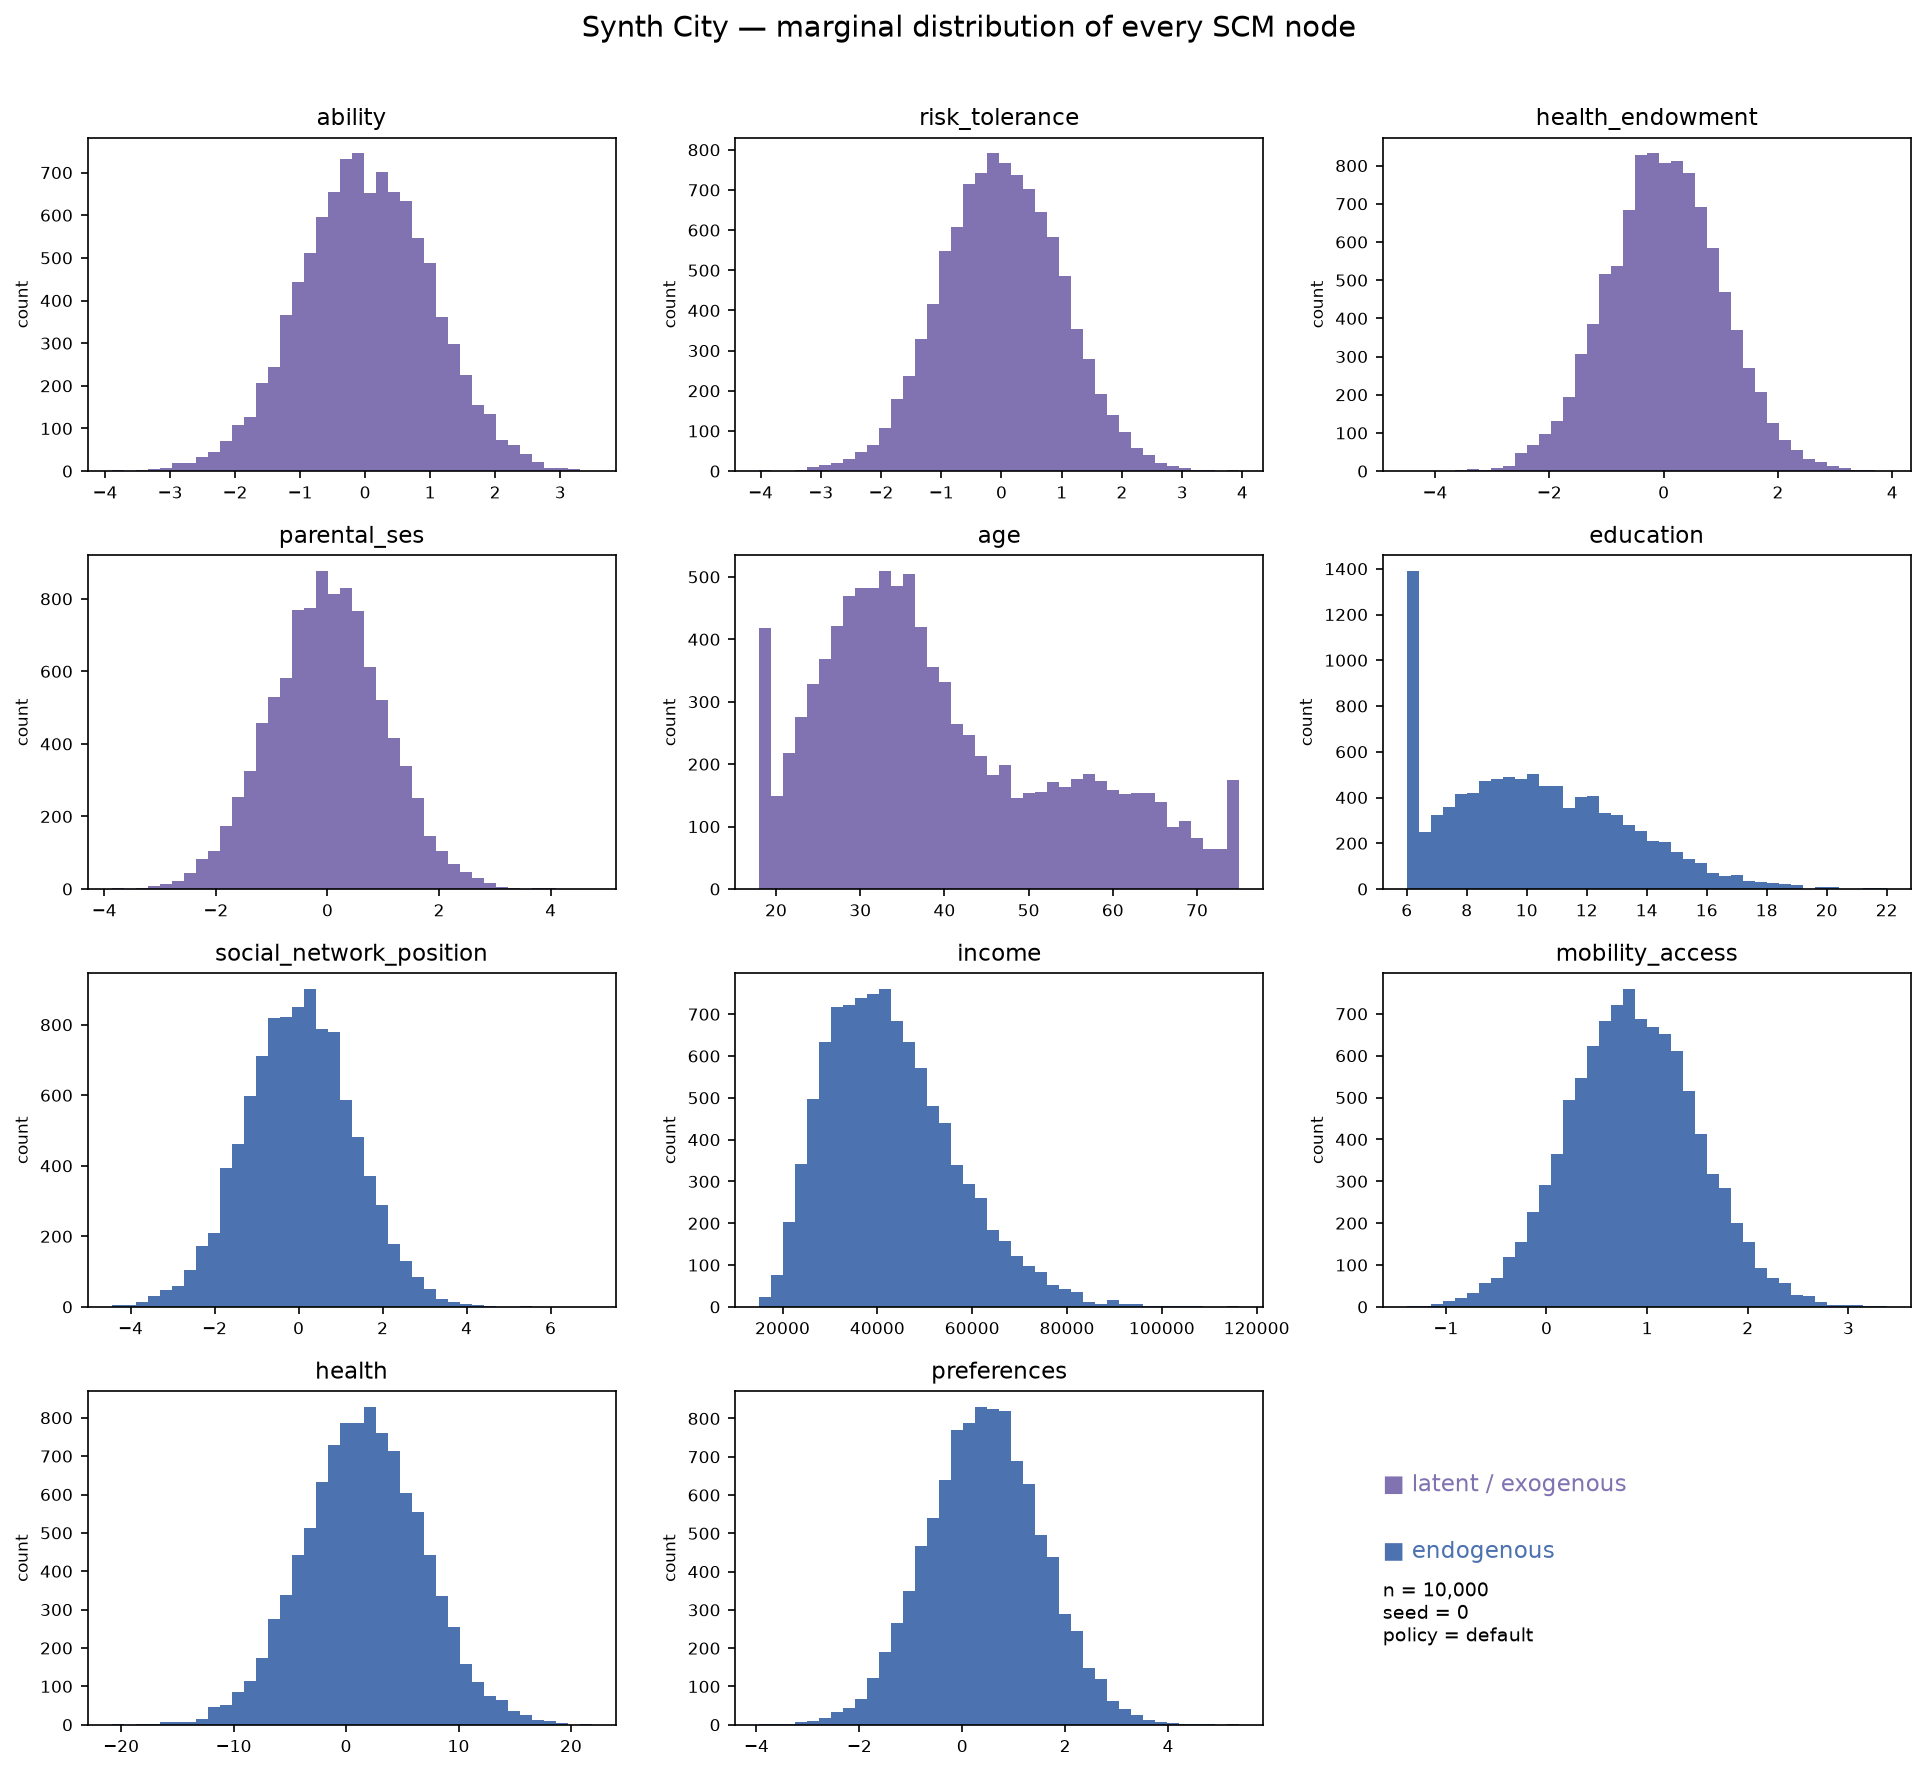
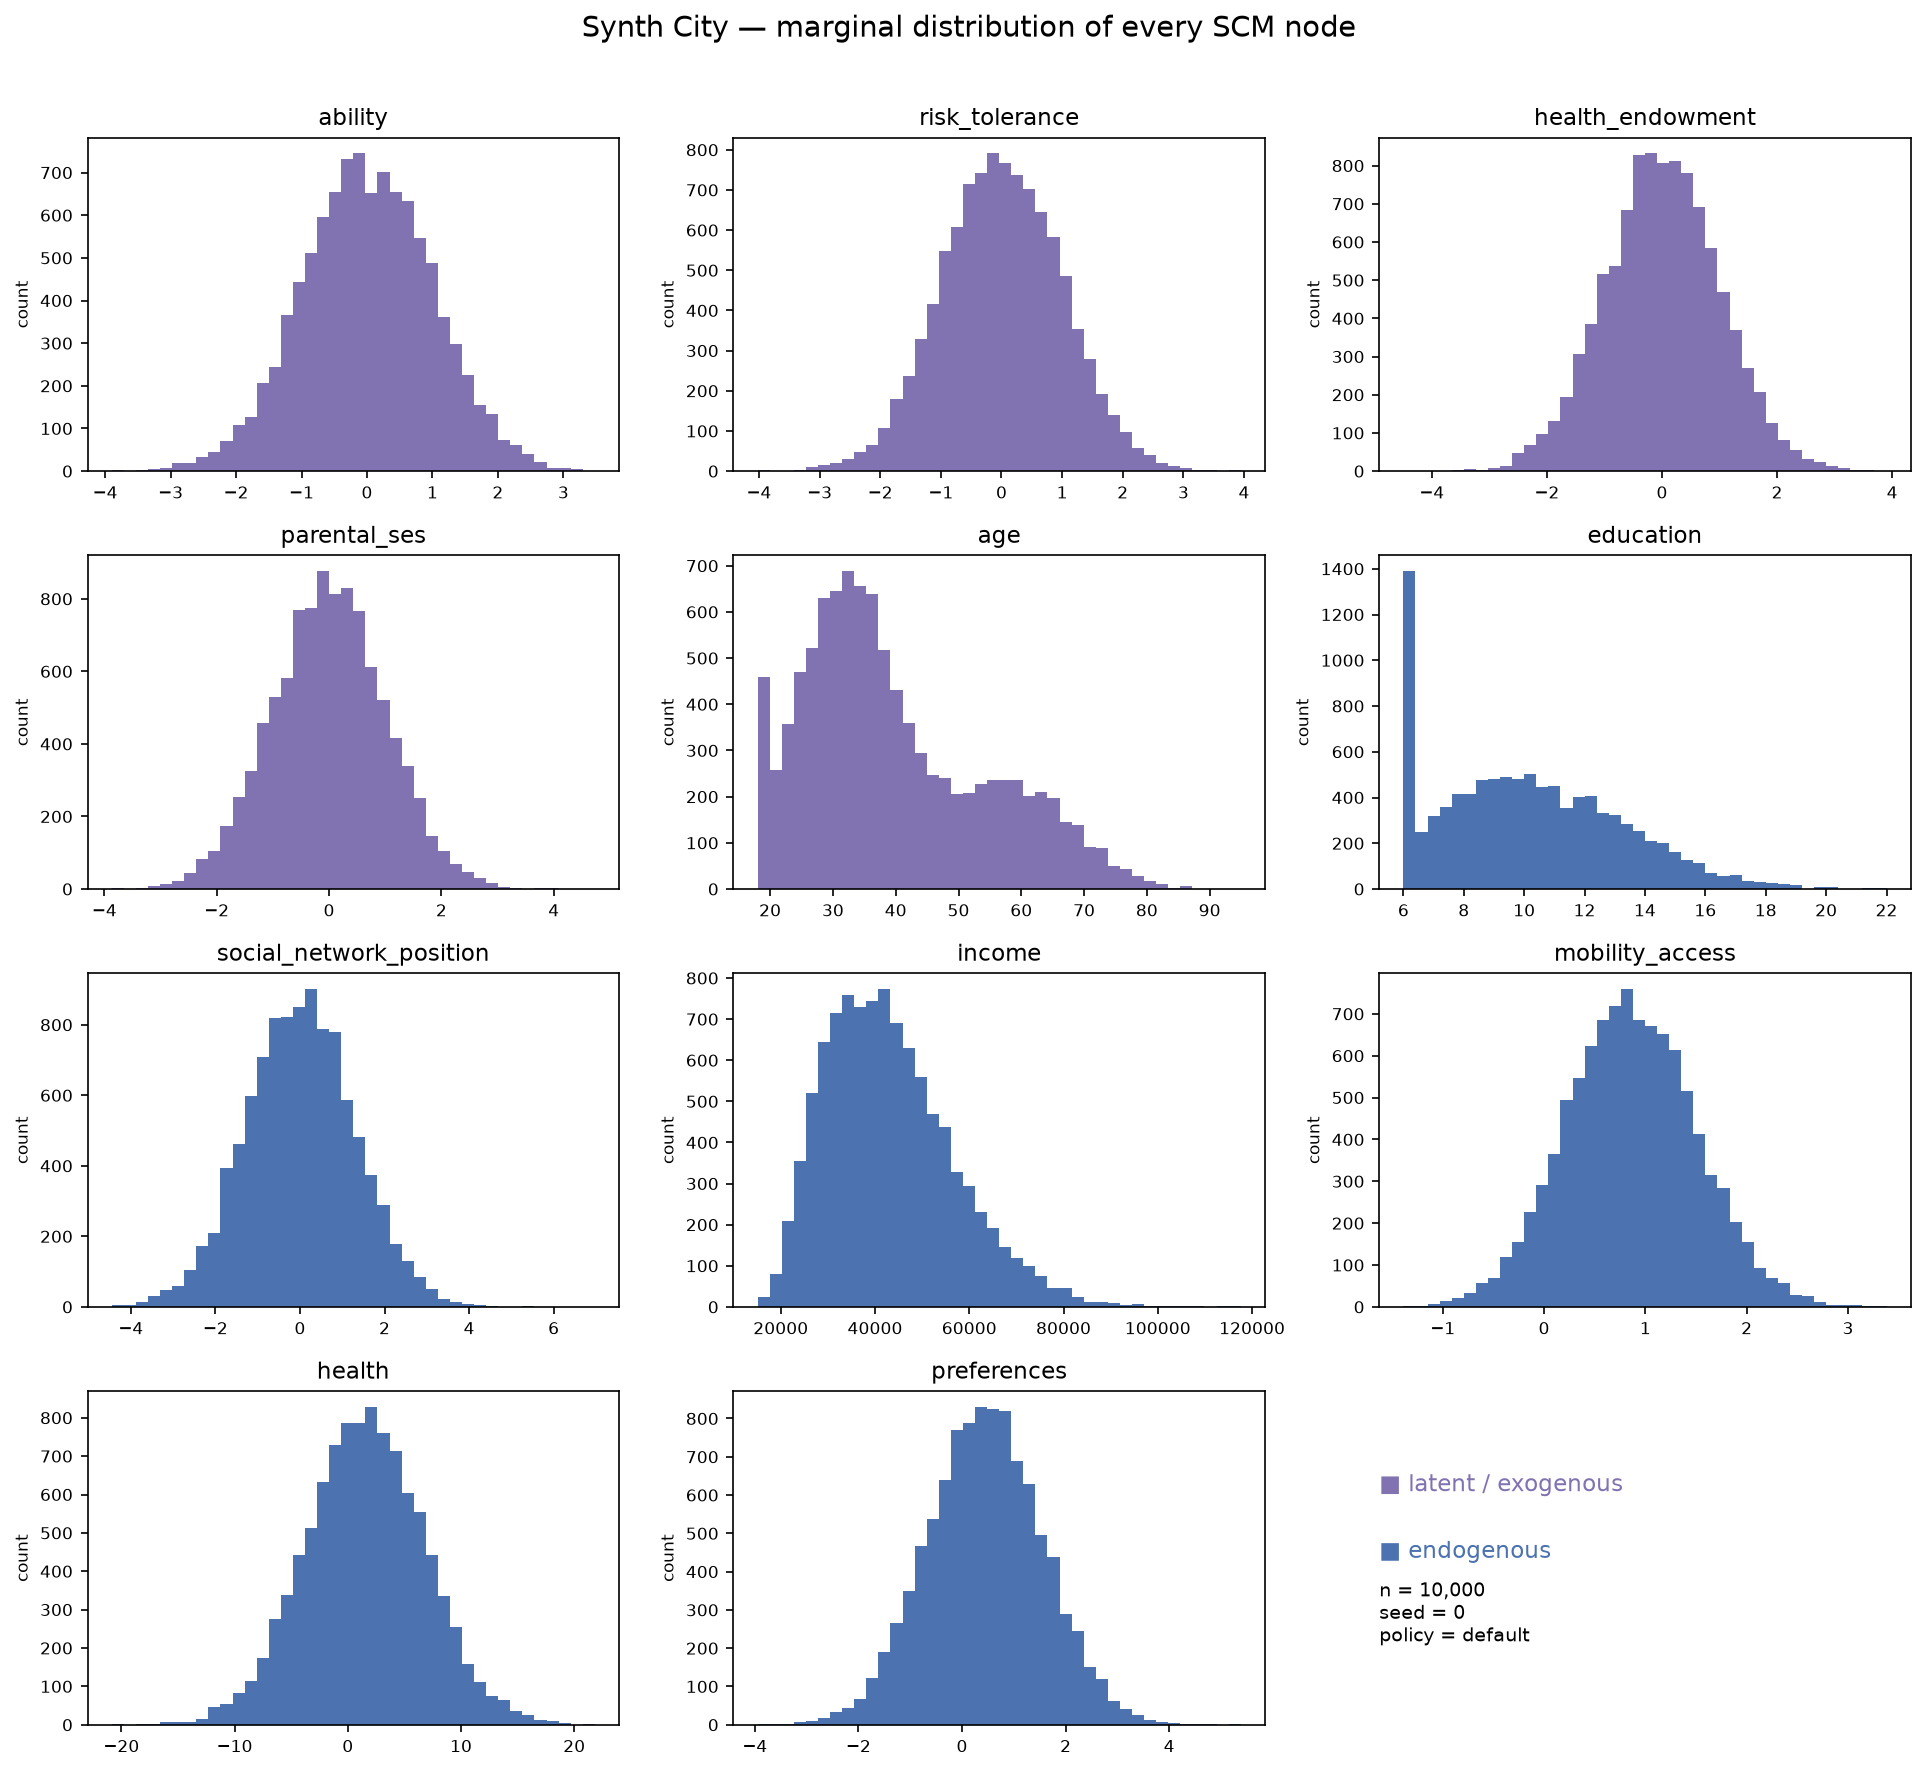
New distributions figures and update readme

diff --git a/synth_city/README.md b/synth_city/README.md
@@ -18,24 +18,16 @@ Variable-by-variable, what each distribution actually is and what it's measured 
   normal, unitless (z-score scale by construction, mean 0 / std 1). These are pure inputs,
   not measured in any real-world unit — think of them as standardized traits.
 
-- **`age`** — years, range [18, 75]. **No longer uniform** — it's a mixture of two normals
-  (peaks around 32 and 58, 70/30 split) meant to look more like a population pyramid than a
-  flat draw. Clipping to [18, 75] leaves small pile-ups at both boundaries, the same
-  artifact as the `education` spike below, just at two points instead of one.
+- **`age`** — years, range [18, 75]. Meant to look like a population pyramid  
 
-- **`education`** — years of schooling, range [6, 22], mean ≈ 10.2, std ≈ 3.0. Still has the
-  **spike at 6**: the structural equation clips raw draws to [6, 22], and enough of the
-  underlying distribution falls below 6 that it piles up at the floor instead of trailing
-  off smoothly. Any analysis conditioning on "lowest education" is conditioning on a point
-  mass, not a tail.
+- **`education`** — years of schooling, range [6, 22], mean ≈ 10.2, std ≈ 3.0. 
 
 - **`social_network_position`** — standardized score, unitless, mean ≈ 0, std ≈ 1.3.
   Roughly normal-shaped, no clipping, so no boundary artifacts.
 
-- **`income`** — US dollars (annual), mean ≈ $43,061, std ≈ $13,595, range
+- **`income`** — EU (euros) (annual), mean ≈ $43,061, std ≈ $13,595, range
   [$15,080, $116,295]. **This changed materially**: noise is now multiplicative lognormal
-  rather than additive normal, so the right skew you see is a real distributional feature,
-  not just an artifact of the minimum-wage floor truncating the left tail. The floor
+  rather than additive normal,  The floor
   (`min_wage × 2080`) still sets the hard minimum at $15,080, but the long right tail out to
   $116k is new — lognormal noise, unlike normal noise, can multiply a high base income into
   a much larger draw, which is exactly the kind of tail real income distributions have.
@@ -58,18 +50,3 @@ Variable-by-variable, what each distribution actually is and what it's measured 
 ```bash
 python3 quantitative_analysis/ds/synth_city_details.py
 ```
-
-
-
-## Reproduce
-
-```bash
-python3 quantitative_analysis/ds/synth_city_details.py
-```
-
-
-
- 
-### Reproduce
-bash
-python synth_city_details.py
